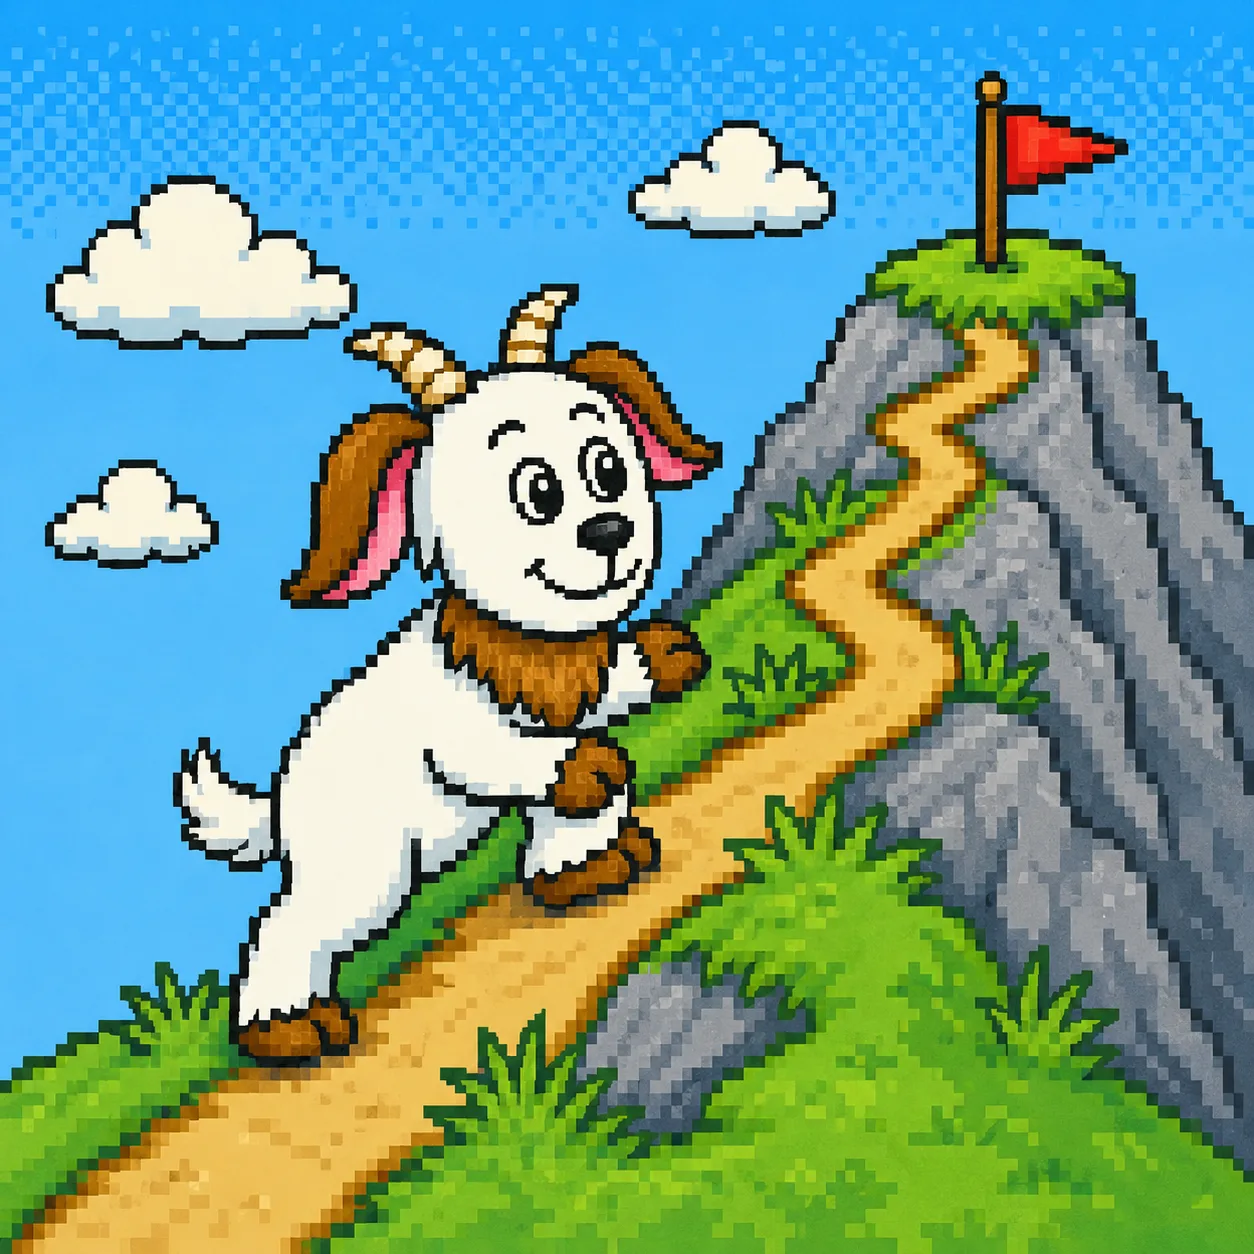
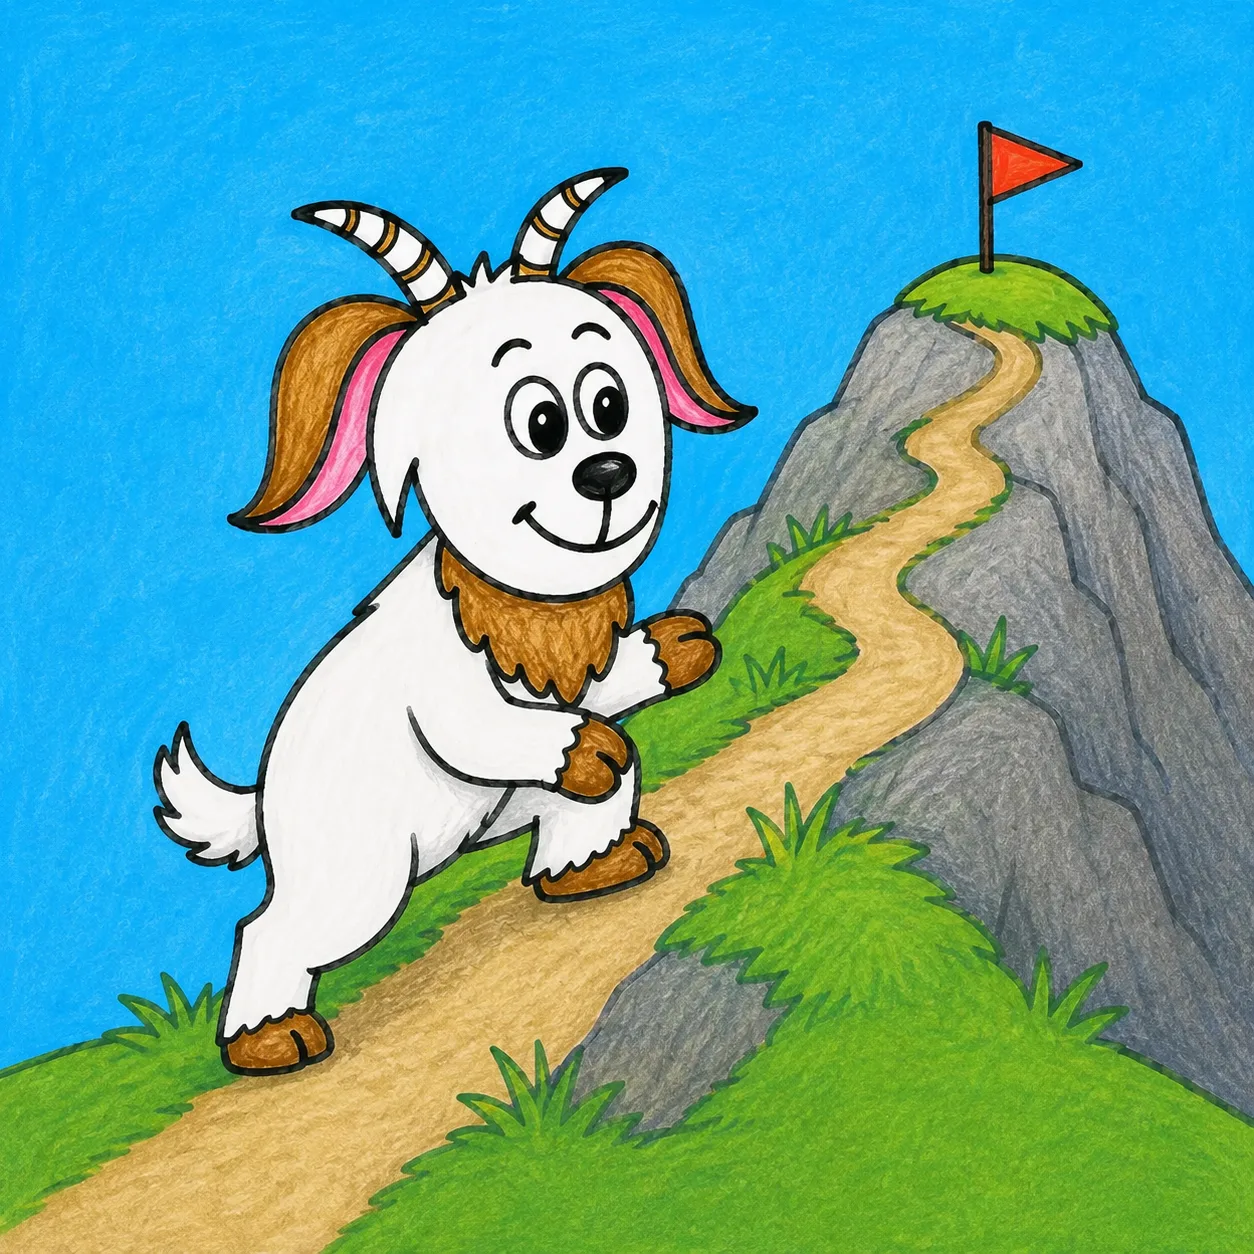
The homepage Play card keeps Kim's crayon climb
The pixel version was generated with the rest of the set, but the
homepage row stays all crayon for now; the drawing is restored from the
previous commit and the prompts doc records the decision.

diff --git a/PIXEL-PROMPTS.md b/PIXEL-PROMPTS.md
@@ -1,11 +1,13 @@
 # The Grit Trail, drawn as a 16-bit game — ChatGPT prompts
 
-> **Status: all eight landed, 1 Sep 2026.** ChatGPT returned the set in one
-> round; every file replaced its crayon predecessor under the same name
-> (`site/public/images/grit-zone/` and `scenes/gritty-climbing.webp`), and
-> the summit-peak, flag-pole, and sign-board constants in
+> **Status: the seven Grit Trail pieces landed, 1 Sep 2026.** ChatGPT
+> returned the set in one round; every file replaced its crayon predecessor
+> under the same name in `site/public/images/grit-zone/`, and the
+> summit-peak, flag-pole, and sign-board constants in
 > `site/src/pages/grit-zone.astro` were re-measured off the new pixels.
-> Kept for the record and for any redo.
+> The homepage Play card (prompt 8) was generated but **kept crayon** — Adam
+> decided the same day to leave that row as Kim's scenes for now. Kept for
+> the record and for any redo.
 
 The crayon set stays in the repo history; the pixel-filter look was tried
 on 1 Sep and rejected because a filter over crayon art blurs into mush. This
